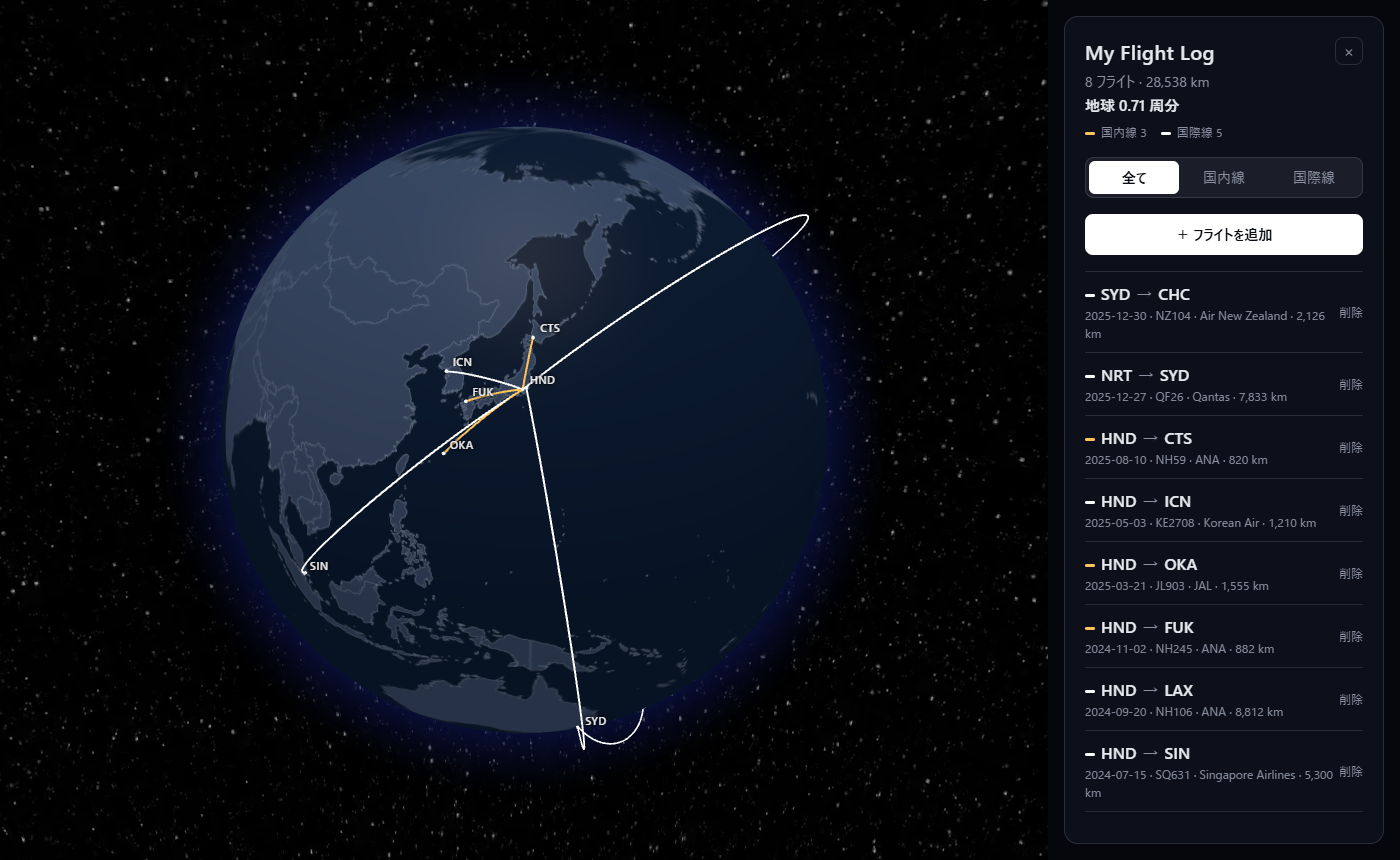
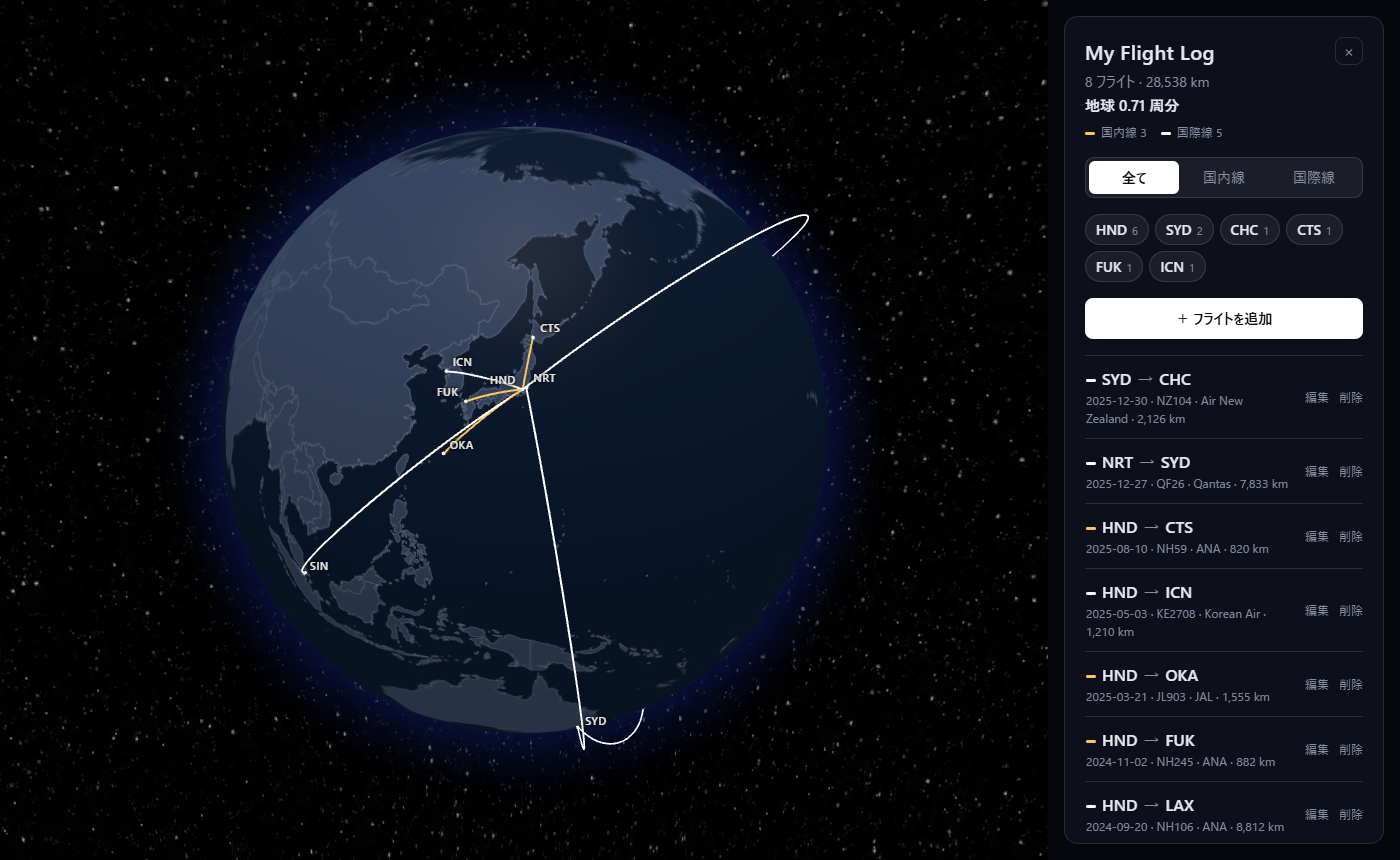
README を現在の機能に合わせて更新
- スクリーンショットを最新の画面に差し替え
- ラベル配置・拡大時の表示・一覧から地図への移動の説明を追加
- ファイル構成を追加
- 使用技術を、アプリ本体と画像生成用に分けて記載

diff --git a/README.md b/README.md
@@ -9,15 +9,18 @@
 ## 主な機能
 
 - **地球儀で路線を表示**: 暗い色の地球儀に、記録したフライトを弧線で描きます。国内線はアンバー、国際線は白です。
+  - 空港コードのラベルは、ほかのラベルと重ならない位置に自動で置きます。HND と NRT のように近い空港も、左右に分かれて両方表示されます。
+  - 拡大しても、路線の線や空港の点は太くなりすぎません。
 - **空港検索**: 3レターコード（`HND`）か、英語の都市名・空港名（`Christchurch`）で探せます。収録は定期便が飛ぶ世界の約4,000空港です。
 - **かんたん入力**: 必須は出発と到着の空港だけで、日付・便名・航空会社は空欄でも登録できます。1便追加すると到着地が次の出発地に入るので、乗り継ぎを続けて入力できます。
-- **編集**: 一覧の「編集」から、登録したフライトの空港・日付・便名・航空会社を直せます。
-- **集計**: 総フライト数、総飛行距離（大圏距離）、地球何周分か、国内線・国際線それぞれの便数を表示します。
+- **編集・削除**: 一覧の「編集」で、登録したフライトの空港・日付・便名・航空会社をその場で直せます。「削除」は確認のうえ消します。
+- **集計**: 総フライト数、総飛行距離（大圏距離）、地球何周分か、国内線・国際線それぞれの便数を表示します。集計は、下の絞り込みに関係なく全フライトが対象です。
 - **絞り込み**:
   - 「全て / 国内線 / 国際線」のボタンで、地図と一覧に出す路線を切り替えます。
-  - 地図上の空港コードを押すと、その空港を発着する路線だけになります。もう一度押すか、地図の何もないところを押すと元に戻ります。
+  - 地図上の空港コードを押すと、その空港を発着する路線だけになります。
   - パネルの「よく使う空港」のボタン（利用回数の多い順に6つ）からも、同じように空港を選べます。
-  - 一覧のフライトを押すと、地図がその路線まで回って、その線を強調します。もう一度押すか、地図の何もないところを押すと元に戻ります。
+  - 同じ空港をもう一度押すか、地図の何もないところを押すと元に戻ります。
+- **一覧から地図へ移動**: 一覧のフライトを押すと、地図がその路線まで回り、その線を太く表示してほかの線を薄くします。もう一度押すか、地図の何もないところを押すと元に戻ります。
 - **バックアップ**: 全フライトを JSON ファイルに書き出し、読み込んで復元できます。
 
 ## データの保存について
@@ -37,6 +40,26 @@ npm install
 npm run dev        # 開発サーバー（http://localhost:5173/）
 npm run build      # 型チェック + 本番ビルド（dist/）
 npm run preview    # 本番ビルドの確認（http://localhost:4173/my-flight-log/）
+```
+
+### ファイル構成
+
+```
+src/
+  App.tsx                    画面全体。フライトの一覧・絞り込み・集計の状態を持つ
+  components/
+    GlobeView.tsx            地球儀（路線・空港の点・ラベル、ラベルの重なり回避、カメラ移動）
+    FlightForm.tsx           フライトの追加・編集フォーム
+    FlightList.tsx           フライト一覧（編集・削除、押すと地図で強調）
+    AirportInput.tsx         空港の検索入力
+    BackupControls.tsx       バックアップの書き出し・読み込み
+  airports.ts                空港の検索、距離・中間地点の計算、国内線/国際線の判定
+  storage.ts                 localStorage への保存と、バックアップファイルの形式・検証
+  types.ts                   Flight・Airport の型
+  data/airports.json         空港データ（scripts/build-airports.mjs で生成）
+public/
+  land.webp, night-sky.webp  地図画像・星空画像（scripts/build-textures.mjs で生成）
+scripts/                     空港データ・画像の生成スクリプト
 ```
 
 ### 空港データの更新
@@ -65,12 +88,14 @@ npm run build:textures
 
 ## 使用技術
 
-- [React](https://react.dev/) + TypeScript + [Vite](https://vite.dev/)
-- [react-globe.gl](https://github.com/vasturiano/react-globe.gl)（[three.js](https://threejs.org/) を使った地球儀の描画）
-- [topojson-client](https://github.com/topojson/topojson-client)
+- アプリ本体
+  - [React](https://react.dev/) + TypeScript + [Vite](https://vite.dev/)
+  - [react-globe.gl](https://github.com/vasturiano/react-globe.gl)（[three.js](https://threejs.org/) を使った地球儀の描画）
+- 地図画像の生成（`npm run build:textures` のときだけ使用）
+  - [d3-geo](https://github.com/d3/d3-geo)、[topojson-client](https://github.com/topojson/topojson-client)、[@napi-rs/canvas](https://github.com/Brooooooklyn/canvas)
 
 ## データ・素材の出典
 
 - 空港データ: [OurAirports](https://ourairports.com/data/)（パブリックドメイン）
 - 国境データ: [Natural Earth](https://www.naturalearthdata.com/)（パブリックドメイン）。[world-atlas](https://github.com/topojson/world-atlas)（ISC License）の 1:50m 版を利用しています。
-- 星空の背景画像: [three-globe](https://github.com/vasturiano/three-globe) のサンプル画像（MIT License）
+- 星空の背景画像: [three-globe](https://github.com/vasturiano/three-globe) のサンプル画像（MIT License）。元の画像は `scripts/assets/night-sky.png` にあります。
